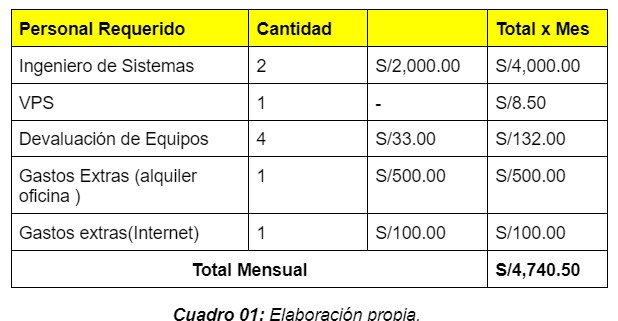
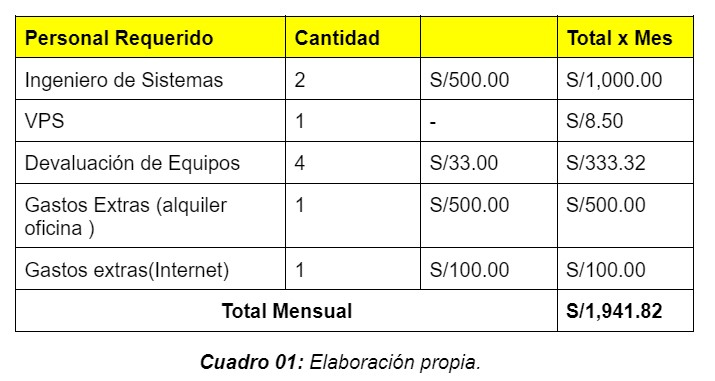
cambio formato #1

Changed region(s): [[0.0, 0.0312, 0.9838, 0.9034], [0.2767, 0.9034, 0.6764, 1.0]]

diff --git a/FD01-Informe-Factibilidad.md b/FD01-Informe-Factibilidad.md
@@ -219,8 +219,8 @@ Consultando el portal web **Indeed**, se estima que el sueldo promedio de un pro
 
 ![./media/media/costogeneral.jpg](./media/costogeneral.jpg)
 
-- **PAGO INICIAL**: S/ 4,732.00 (Primer mes)
-- **PAGO MENSUAL**: S/ 4,740.50
+- **PAGO INICIAL**: S/ 1,941.82 (Primer mes)
+- **PAGO MENSUAL**: S/ 1,941.82
 - **VALOR DE SALVAMENTO**: S/ 792.00
 - **TIEMPO ESTIMADO**: 6 meses
 - **TASA DE INTERÉS**: 7.8%
